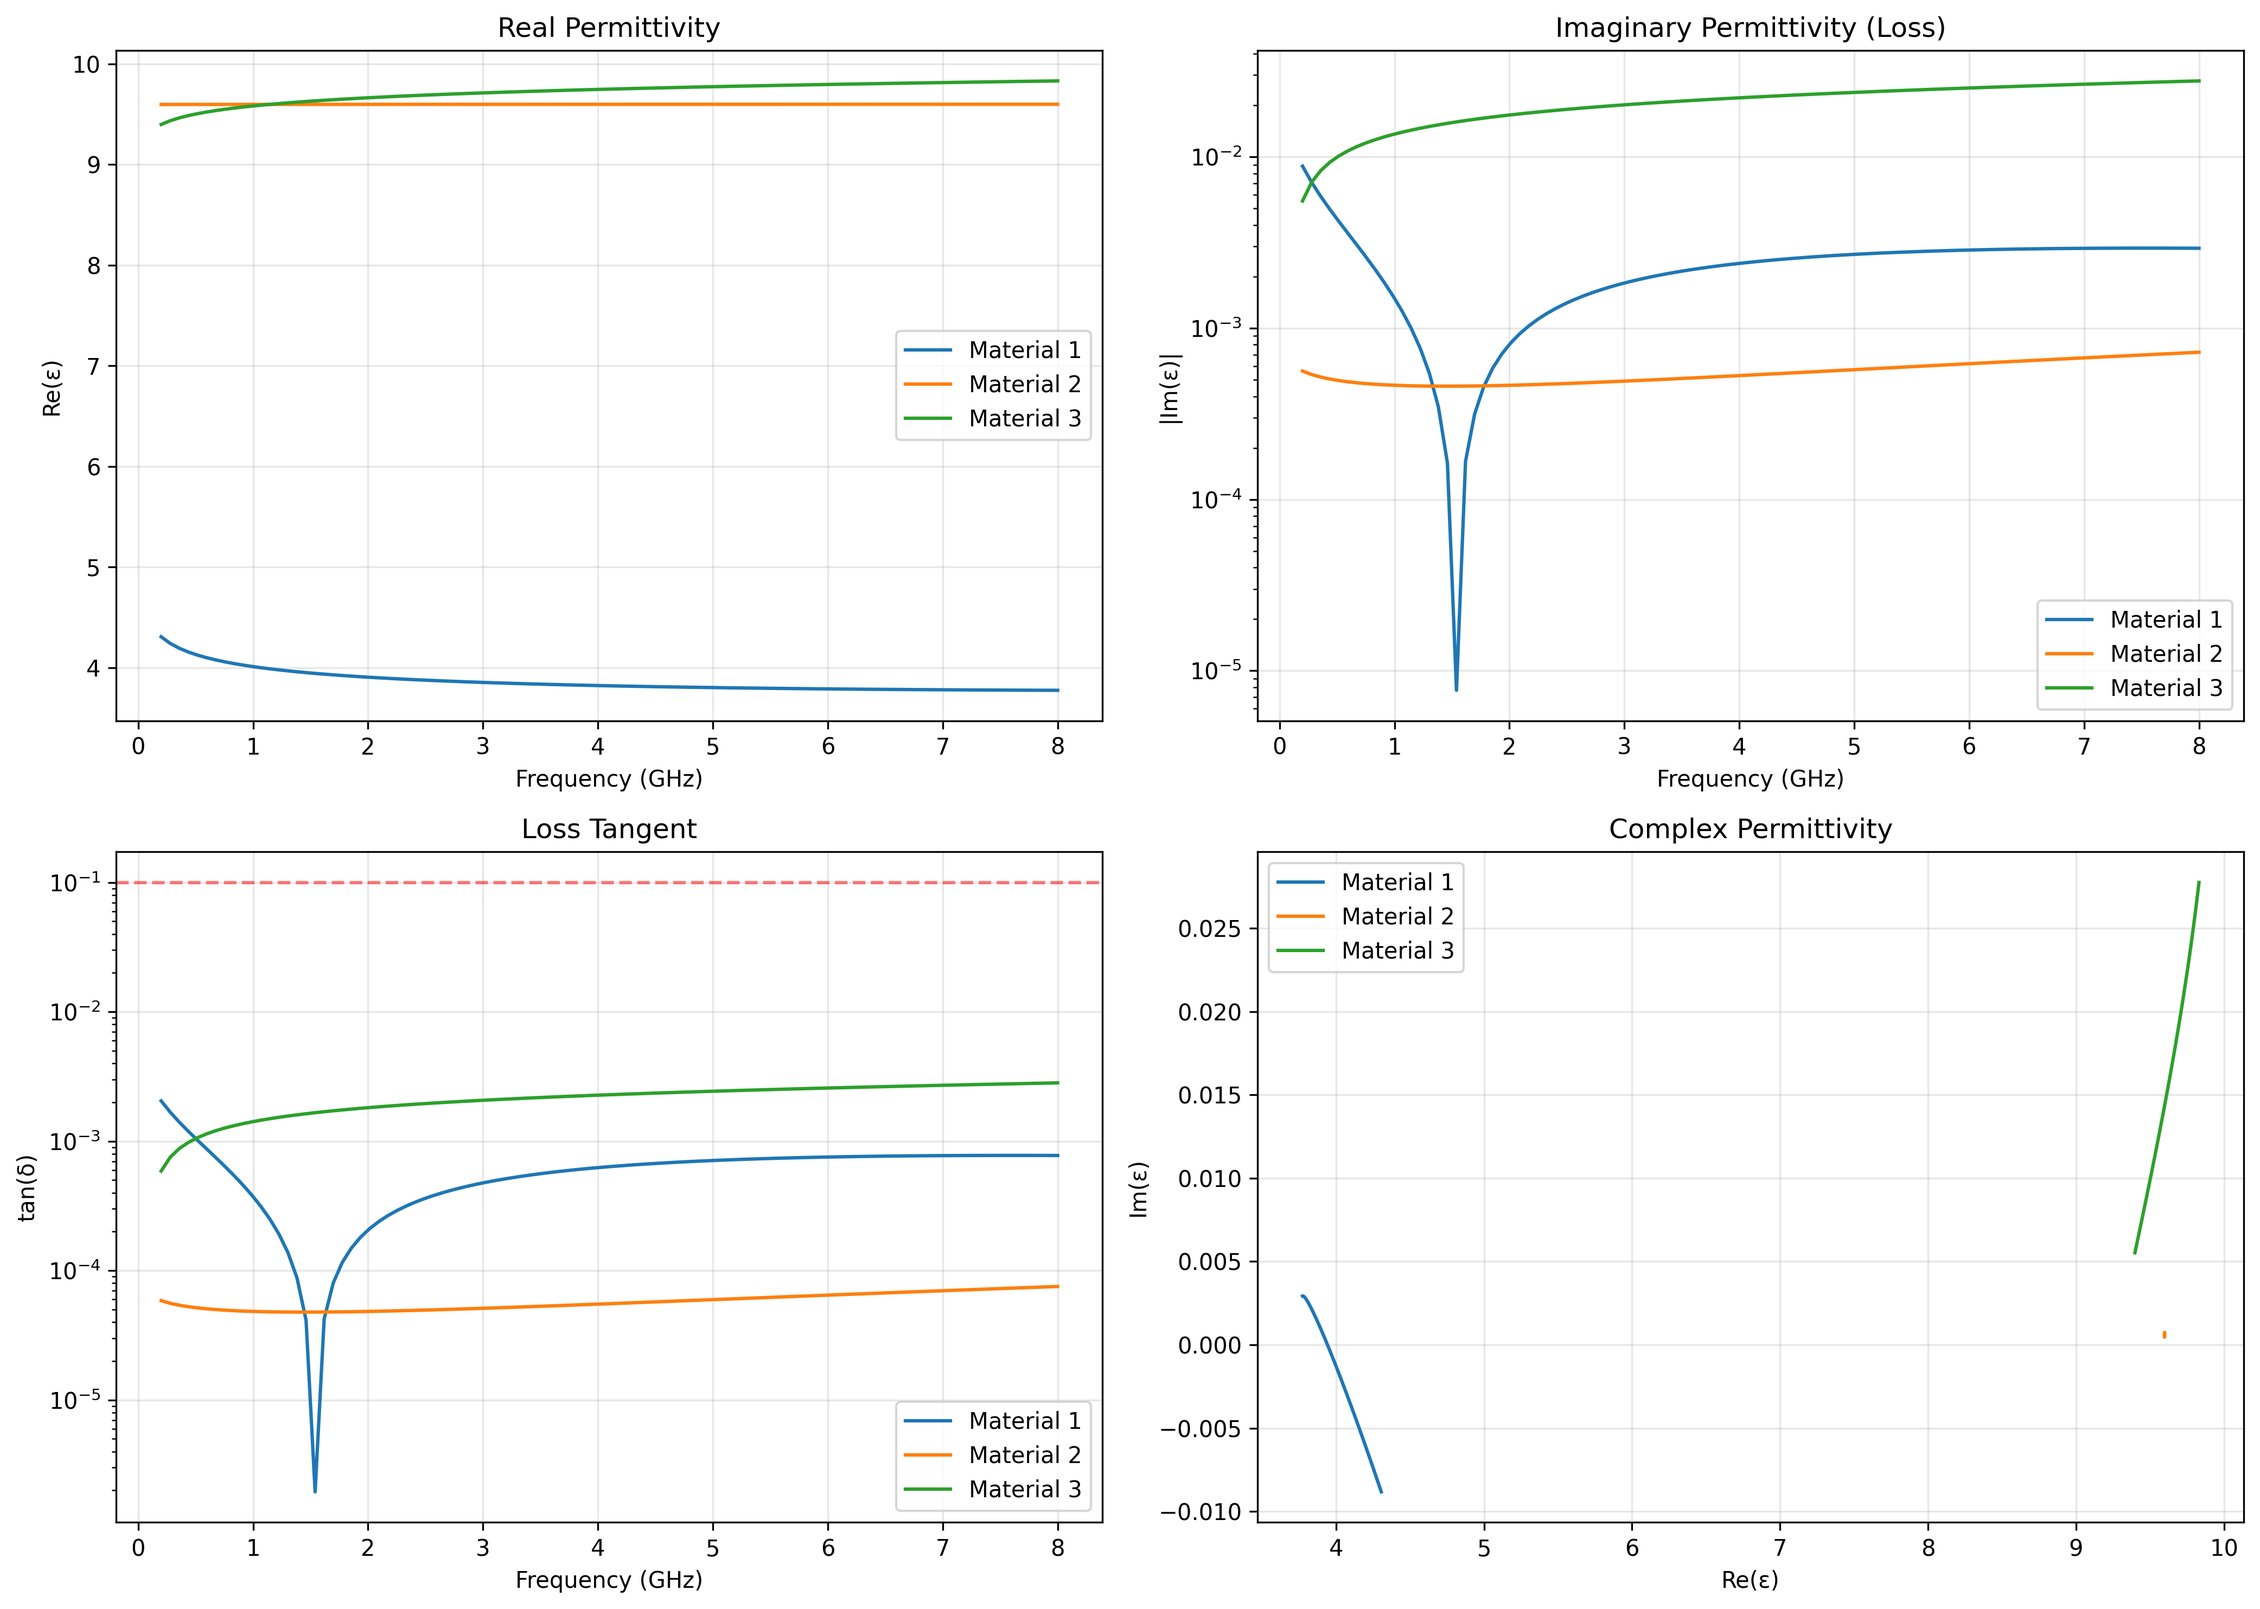
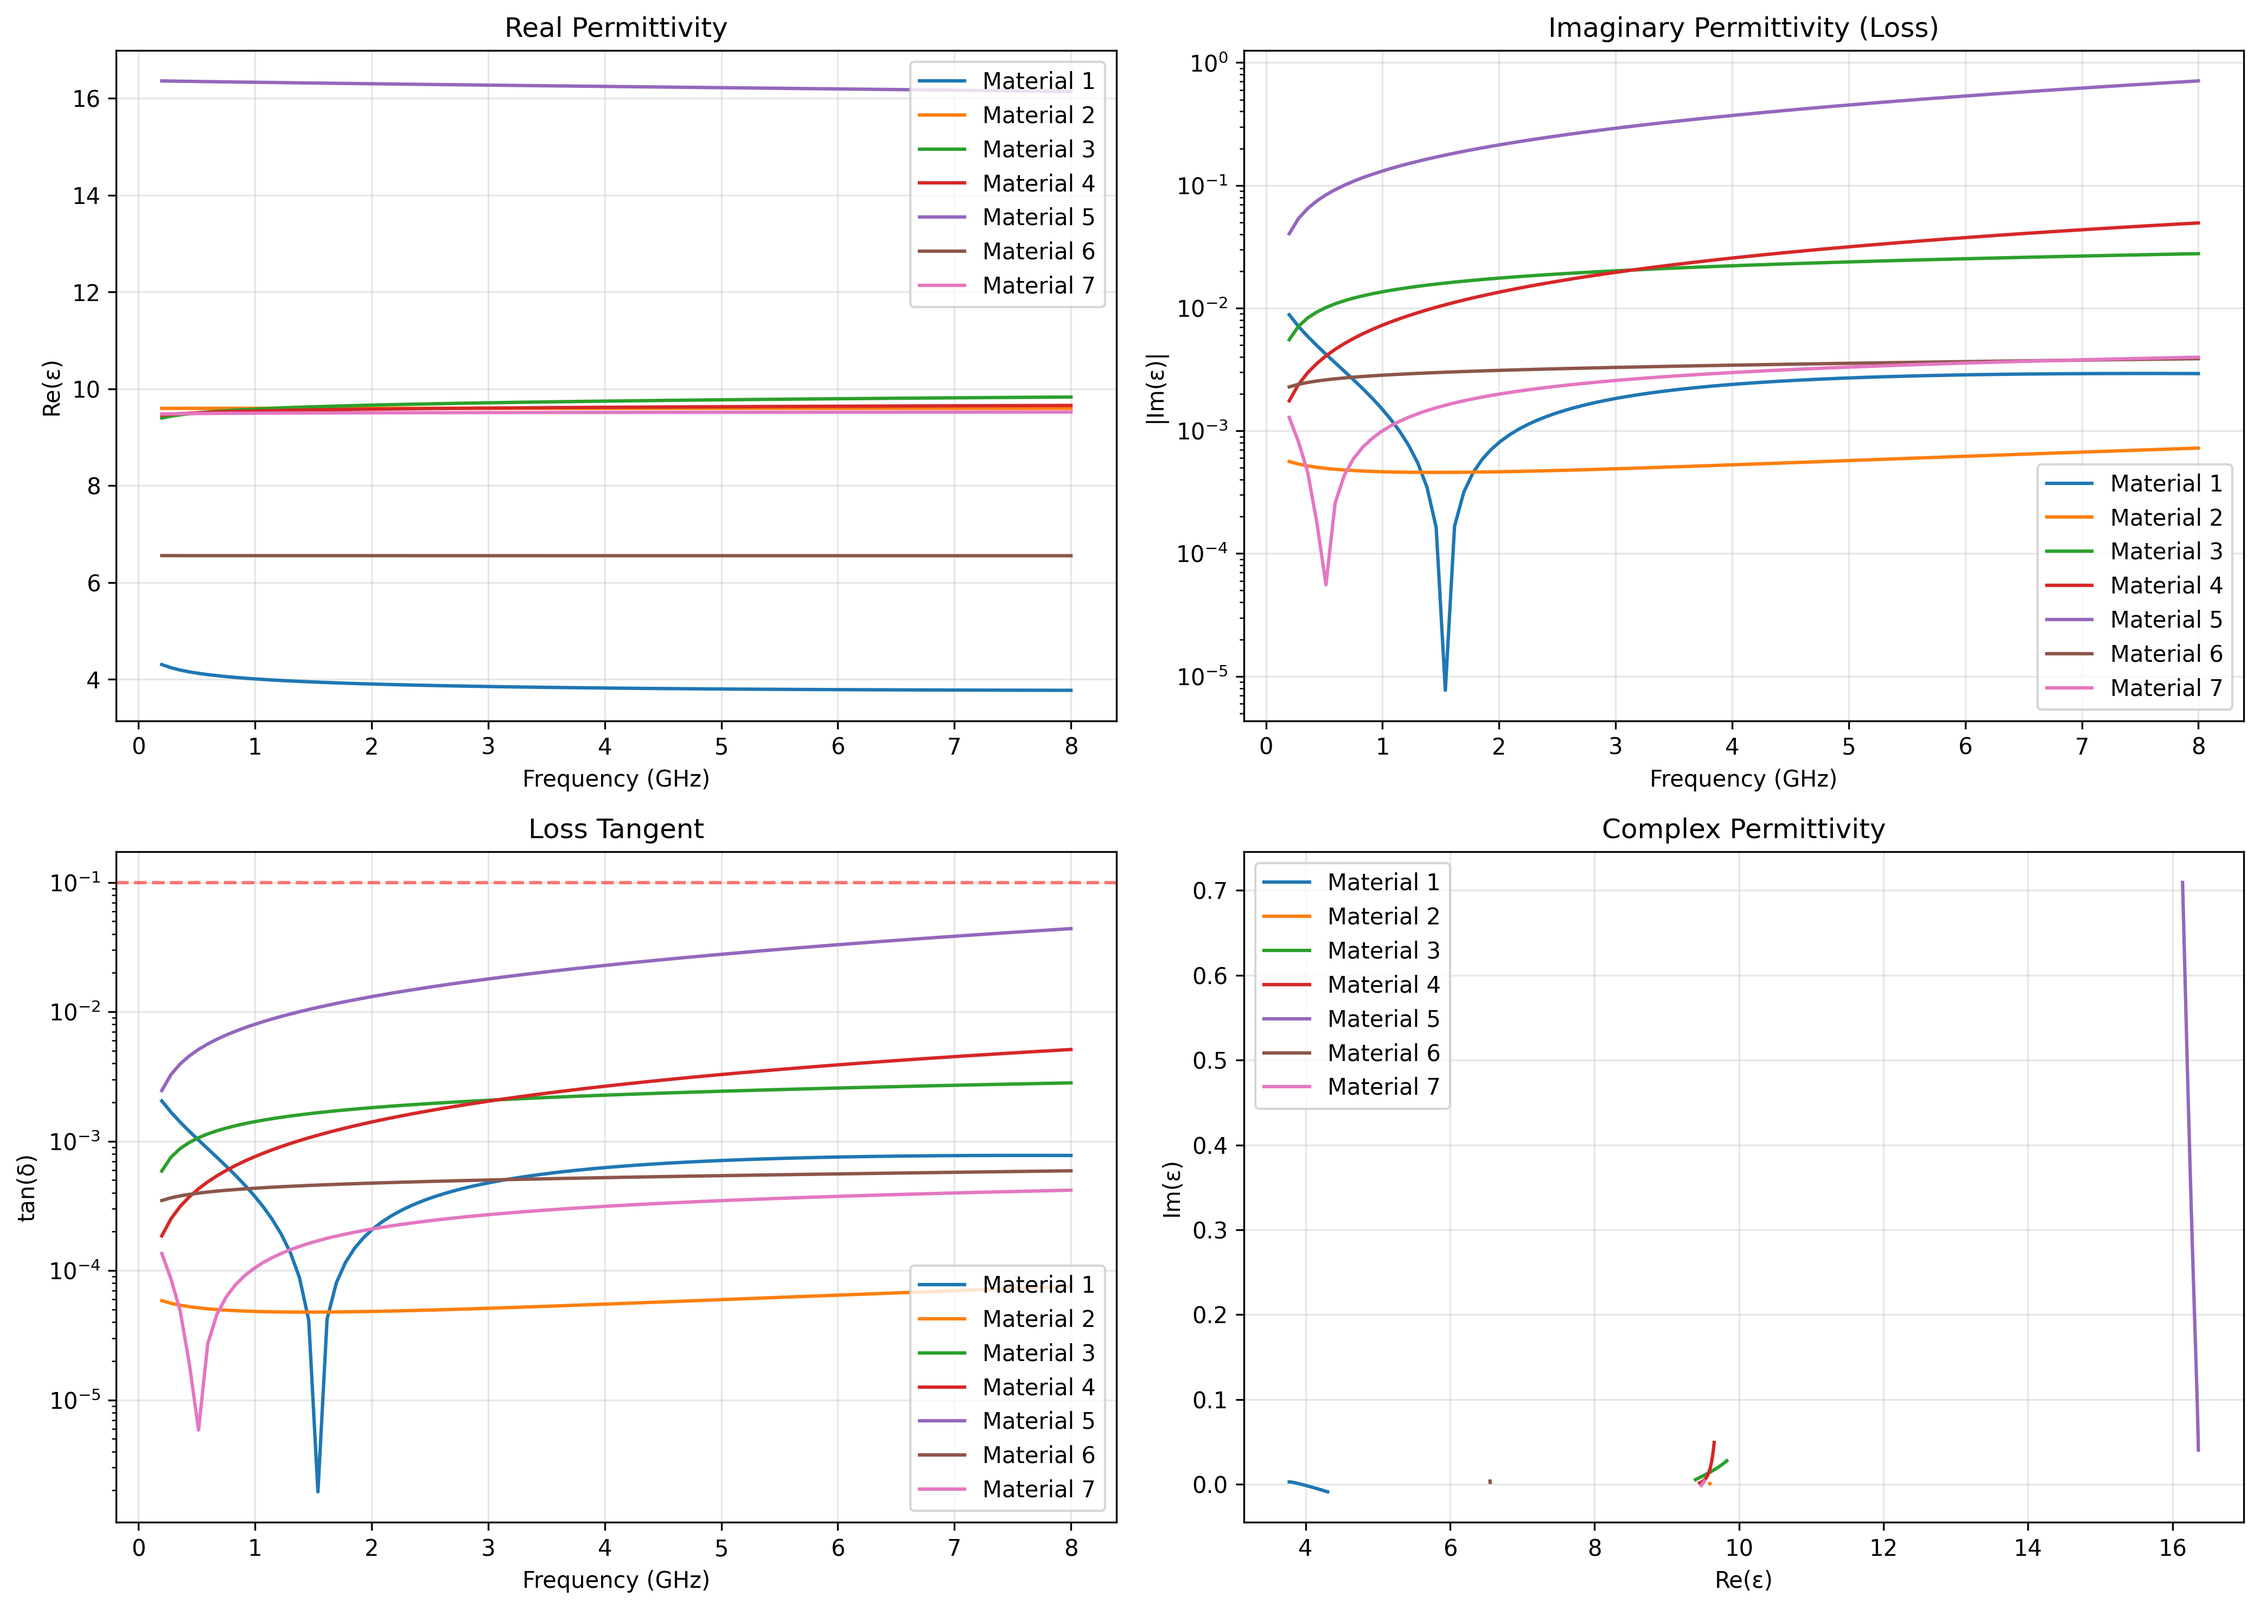
playing around with the debug scipt

diff --git a/radar/Real_Materials/Optimization/DEBUGGING SCRIPT.py b/radar/Real_Materials/Optimization/DEBUGGING SCRIPT.py
@@ -10,7 +10,7 @@ print("RAM OPTIMIZATION DIAGNOSTIC TOOL")
 print("="*70)
 
 # Test configuration
-test_material_indices = [1, 2, 3]  # From your optimal structure
+test_material_indices = [1,2,3,4,5,6,7]  # Input from you optimizal strucutre
 freq_min_GHz = 0.2
 freq_max_GHz = 8.0
 num_freq_points = 100
